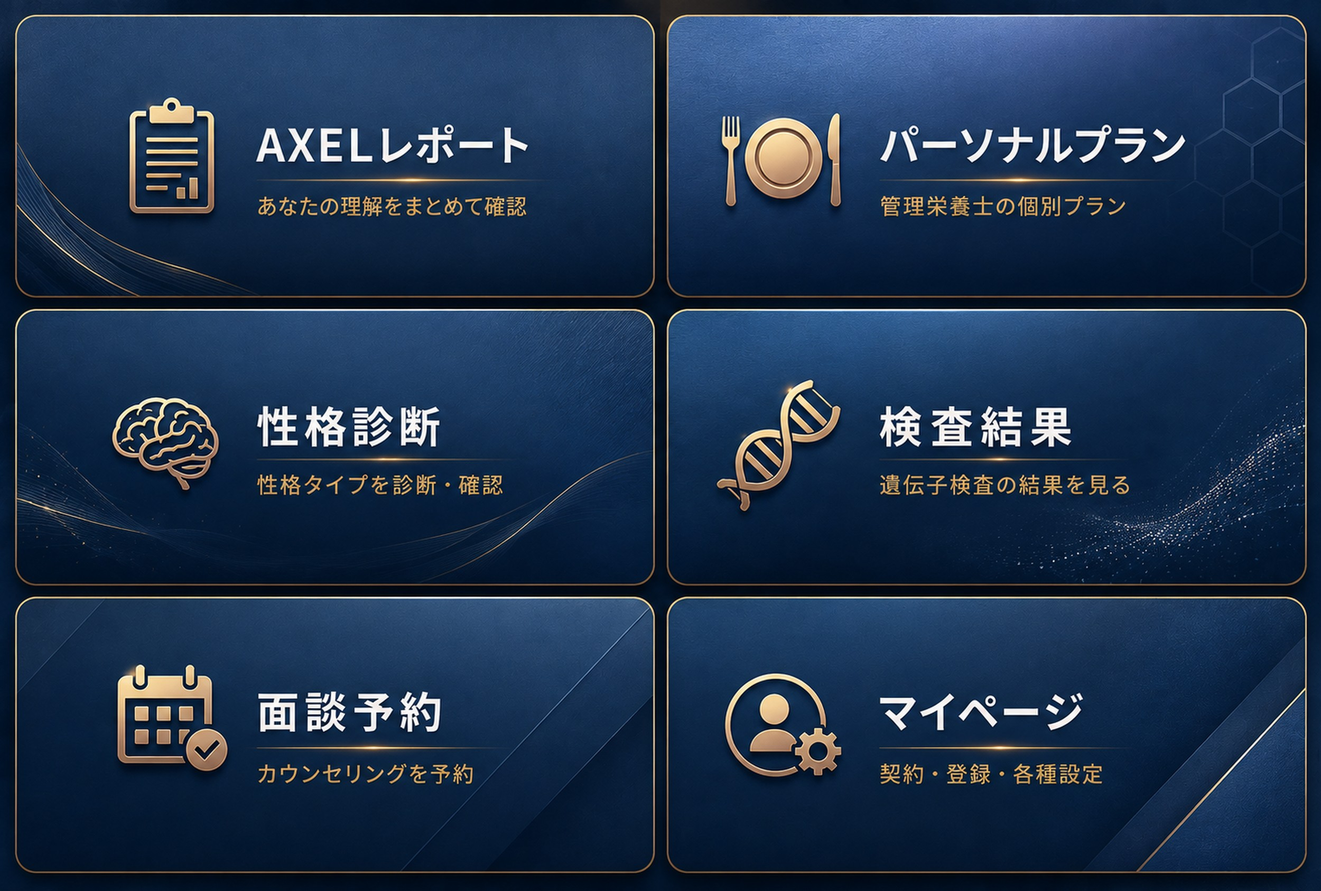
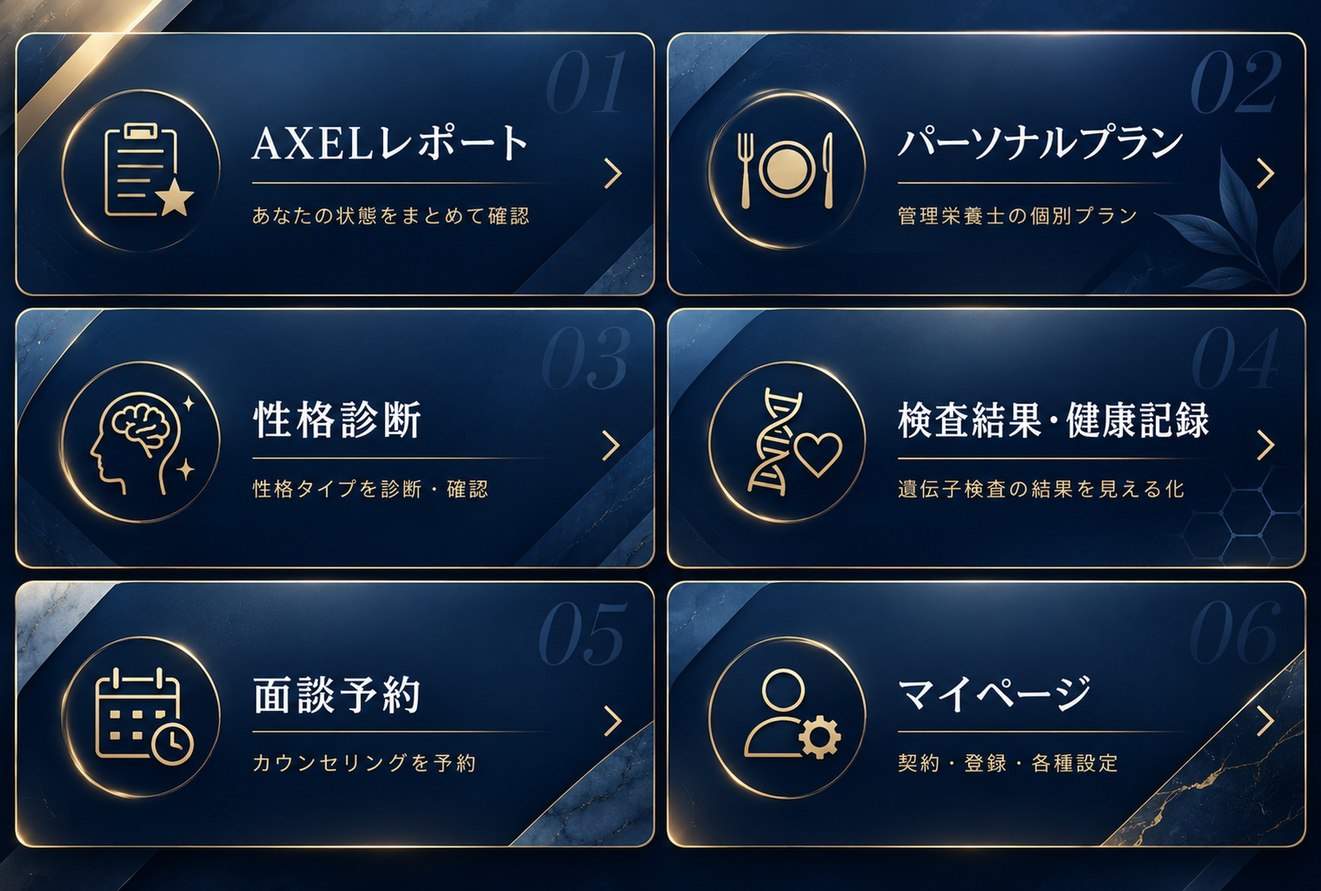
feat: deploy the new luxury rich-menu image (v3)
Client-generated navy×gold design with all six labels including the renamed
検査結果・健康記録. Source 1527×1030 → LANCZOS resize to LINE's exact
2500×1686 spec, JPEG q90 (532KB, under the 1MB limit). Menu name bumped to v3
to trigger replacement; verified by downloading the live image back from
LINE's servers — default menu is now richmenu-c9c26421….

diff --git a/backend/src/services/lineRichMenu.ts b/backend/src/services/lineRichMenu.ts
@@ -91,7 +91,7 @@ const liff = (route: string) => `https://liff.line.me/${LIFF_ID}/${route}`;
 const RICH_MENU_BODY = {
   size: { width: W, height: H },
   selected: true,
-  name: 'AXEL 6項目ナビ (クライアント2026-08-11設計)',
+  name: 'AXEL 6項目ナビ v3 (新デザイン画像+検査結果・健康記録 2026-09-17)',
   chatBarText: 'メニュー',
   areas: [
     // Row 1
